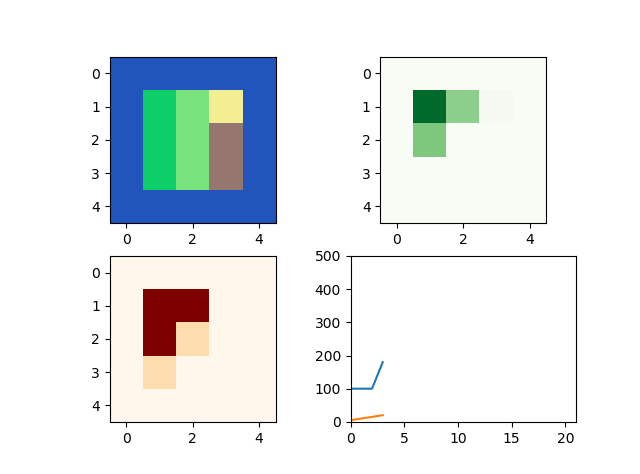
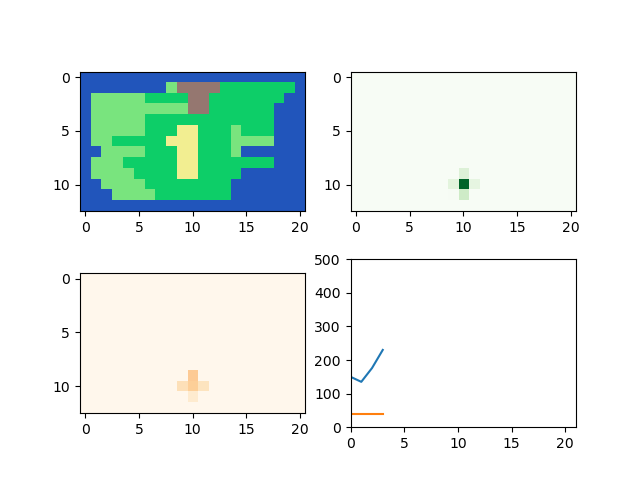
commit

diff --git a/src/biosim/simulation.py b/src/biosim/simulation.py
@@ -6,6 +6,9 @@ __email__ = "huse.anders@gmail.com"
 from biosim.Cycle import Cycle
 from biosim.Geography import Geo
 from biosim.Visualization import Visualization
+from biosim.Mapping import Savannah, Jungle
+from biosim.Animal import Herbivore, Carnivore
+
 import numpy as np
 import matplotlib.pyplot as plt
 
@@ -60,10 +63,11 @@ class BioSim:
         :param species: String, name of animal species
         :param params: Dict with valid parameter specification for species
         """
+        if species == 'Herbivore':
+            Herbivore.up_par(params)
 
-        #animal, up_par
-        # Herbivore.up_par()
-        # Carnivore.up_par()
+        else:
+            Carnivore.up_par()
 
     def set_landscape_parameters(self, landscape, params):
         """
@@ -72,10 +76,11 @@ class BioSim:
         :param landscape: String, code letter for landscape
         :param params: Dict with valid parameter specification for landscape
         """
-        # if landscape == 'S':
-        #     Savannah.params.update(params)
-        # else:
-        #     Jungle.params.update(params)
+        if landscape == 'S':
+            Savannah.parameters.update(params)
+        else:
+            Jungle.parameters.update(params)
+       #change mapping parameters to dictionary
 
 
     def simulate(self, num_years=1, vis_years=1, img_years=None):
@@ -107,6 +112,7 @@ class BioSim:
             c.animals_eat()
             c.animals_reproduce()
             c.animals_migrate()
+            c.animals_die()
 
 
             v.update_graphics(self.herbivore_distribution,
@@ -213,18 +219,44 @@ class BioSim:
 
 
 if __name__ == "__main__":
-    map = ("""\
-        OOOOO
-        OJSDO
-        OJSMO
-        OJSMO
-        OOOOO""")
-    ini_herbs = [{'loc': (1, 1), 'pop': [{'species': 'Herbivore', 'age': 5,
-                                          'weight': 10} for _ in range(100)]+
-                                        [{'species': 'Carnivore', 'age': 10,
-                                          'weight': 100} for _ in range(5)
-                                         ]}]
+    map = """\
+                 OOOOOOOOOOOOOOOOOOOOO
+                 OOOOOOOOSMMMMJJJJJJJO
+                 OSSSSSJJJJMMJJJJJJJOO
+                 OSSSSSSSSSMMJJJJJJOOO
+                 OSSSSSJJJJJJJJJJJJOOO
+                 OSSSSSJJJDDJJJSJJJOOO
+                 OSSJJJJJDDDJJJSSSSOOO
+                 OOSSSSJJJDDJJJSOOOOOO
+                 OSSSJJJJJDDJJJJJJJOOO
+                 OSSSSJJJJDDJJJJOOOOOO
+                 OOSSSSJJJJJJJJOOOOOOO
+                 OOOSSSSJJJJJJJOOOOOOO
+                 OOOOOOOOOOOOOOOOOOOOO"""
+
+
+    ini_herbs = [
+        {
+            "loc": (10, 10),
+            "pop": [
+                {"species": "Herbivore", "age": 5, "weight": 20}
+                for _ in range(150)
+            ],
+        }
+    ]+ [
+        {
+            "loc": (10, 10),
+            "pop": [
+                {"species": "Carnivore", "age": 5, "weight": 20}
+                for _ in range(40)
+            ],
+        }
+    ]
 
     s = BioSim(map, ini_herbs, seed = 1)
 
     s.simulate()
+
+    s.set_landscape_parameters("J", {"f_max": 700})
+    print(Jungle.parameters)
+

diff --git a/src/biosim/Cycle.py b/src/biosim/Cycle.py
@@ -27,9 +27,10 @@ class Cycle:
         for row_of_obj in self.object_matrix:
             for obj in row_of_obj:
                 if type(obj).__name__ == "Savannah":
-                    obj.f_ij += obj.alpha * (obj.f_max - obj.f_ij)
+                    obj.f_ij += obj.alpha * (obj.parameters['f_max'] -
+                                             obj.f_ij)
                 elif type(obj).__name__ == "Jungle":
-                    obj.f_ij = obj.f_max
+                    obj.f_ij = obj.parameters['f_max']
 
     def animals_eat(self):
         """
@@ -193,6 +194,26 @@ class Cycle:
                 cell.animal_object_list = [animal for animal in
                                            cell.animal_object_list if
                                            animal not in animals_moved_away]
+
+    def animals_die(self):
+        death_list = []
+        for row, row_of_obj in enumerate(self.object_matrix):
+            for col, cell in enumerate(row_of_obj):
+                if type(cell).__name__ in ["Desert", "Savannah", "Jungle"]:
+                    for animal in cell.animal_object_list:
+                        if animal.fitness == 0:
+                            death_list.append(animal)
+                        else:
+                            death_prob = animal.p['omega']*(1- animal.fitness)
+                            print('death:', death_prob)
+                            rand_num = np.random.random()
+                            if rand_num < death_prob:
+                                death_list.append(animal)
+
+                cell.animal_object_list = [animal for animal in
+                                           cell.animal_object_list if
+                                           animal not in death_list]
+
 
 
 

diff --git a/src/biosim/Animal.py b/src/biosim/Animal.py
@@ -210,10 +210,12 @@ class Carnivore(Animal):
                         if rand_prob < kill_prob:
                             dead_list.append(herb)
                             amount_eaten += herb.weight
+                            self.weight += self.p['beta']*herb.weight
                     else:
                         dead_list.append(herb)
                         amount_eaten += herb.weight
-            # Delete herbivores from list in the cell, update the list
+                        self.weight += self.p['beta']*herb.weight
+                        # Delete herbivores from list in the cell, update the list
             cell.animal_object_list = [
                 animal for animal in cell.animal_object_list
                 if animal not in dead_list]

diff --git a/tests/test_Geography.py b/tests/test_Geography.py
@@ -47,20 +47,7 @@ def test_map_gives_object_output():
                           ['Ocean', 'Jungle', 'Ocean'],
                           ['Ocean', 'Ocean', 'Ocean']]
 
-def test_adjacent_cell():
-    input_map = ("""\
-                        OOOO
-                        OJSO
-                        OOOO""")
-    g = Geo(input_map)
-    # print(g.object_matrix)
-    kun_migratable  = [type(cell).__name__ for cell in
-                        g.get_adjacent_migratable_cells(1, 1)]
-    all_four = [type(cell).__name__ for cell in
-                g.get_adjacent_cells(1, 1)]
 
-    assert kun_migratable == ['Savannah']
-    assert all_four == ['Ocean', 'Ocean', 'Savannah', 'Ocean']
 
 
 

diff --git a/tests/test_Cycle.py b/tests/test_Cycle.py
@@ -1,0 +1,24 @@
+# -*- coding: utf-8 -*-
+
+"""
+Test for Cycle class
+"""
+
+__author__ = "Anders Huse, Bishnu Poudel"
+__email__ = "anhuse@nmbu.no; bipo@nmbu.no"
+
+from biosim.Cycle import Cycle
+from biosim.Geography import Geo
+
+def test_get_adjacent_migratable_cells():
+    input_map = ("""\
+                        OOOO
+                        OJSO
+                        OOOO""")
+    g = Geo(input_map)
+    c = Cycle(g.object_matrix)
+    # print(g.object_matrix)
+    kun_migratable  = [type(cell).__name__ for cell in
+                        c.get_adjacent_migratable_cells(1, 1)]
+
+    assert kun_migratable == ['Savannah']

diff --git a/src/biosim/Visualization.py b/src/biosim/Visualization.py
@@ -208,12 +208,11 @@ class Visualization:
         subprocess.check_call([_FFMPEG_BINARY,
                                '-i', 'Image-%03d.png',
                                '-y',
-                               # '-f','image2',
-                               # '-vcodec','mpeg4'
-                               '-r', '0.2',
+                               # '-framerate', '1',
                                '-profile:v', 'baseline',
                                '-level', '3.0',
                                '-pix_fmt', 'yuv420p',
+                               '-r', '6',
                                'Movie.mp4'])
 
 

diff --git a/src/biosim/Geography.py b/src/biosim/Geography.py
@@ -81,27 +81,6 @@ class Geo:
         pass
 
 
-
-    def get_adjacent_cells(self,  row, column ):
-        list_of_adj = []
-        for i in (-1, 1):
-            try:
-                _t = self.object_matrix[row][column+i]
-            except:
-                pass
-            else:
-                list_of_adj.append(_t)
-
-            try:
-                _t = self.object_matrix[row+i][column]
-            except:
-                pass
-            else:
-                list_of_adj.append(_t)
-
-        return list_of_adj
-
-
 if __name__ == "__main__":
     map = ("""\
         OOOOO

diff --git a/src/biosim/Mapping.py b/src/biosim/Mapping.py
@@ -73,9 +73,10 @@ class Cell:
 
 
 class Jungle(Cell):
-    f_max = 800
+#    f_max = 800
+    parameters = {'f_max': 800.0, 'alpha': None}
     is_migratable = True
-    #parameters = {'f_max': 800.0, 'alpha': None}
+
 
     def __init__(
             self,
@@ -103,9 +104,9 @@ class Jungle(Cell):
 
 
 class Savannah(Cell):
-    f_max = 300
+#    f_max = 300
+    parameters = {'f_max': 800.0, 'alpha': None}
     is_migratable = True
-    #parameters = {'f_max': 800.0, 'alpha': None}
 
     def __init__(
             self,

diff --git a/tests/test_Animal.py b/tests/test_Animal.py
@@ -1,7 +1,7 @@
 # -*- coding: utf-8 -*-
 
 """
-Geo class
+Tests for Animal class
 """
 
 __author__ = "Anders Huse, Bishnu Poudel"
